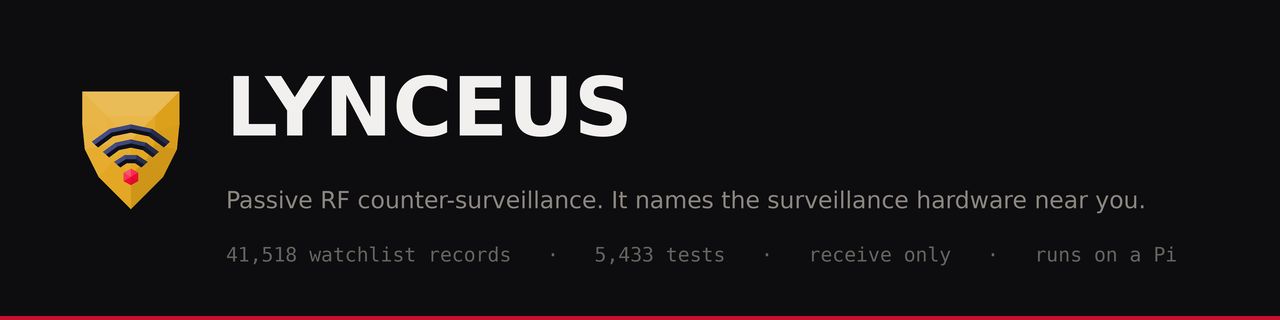
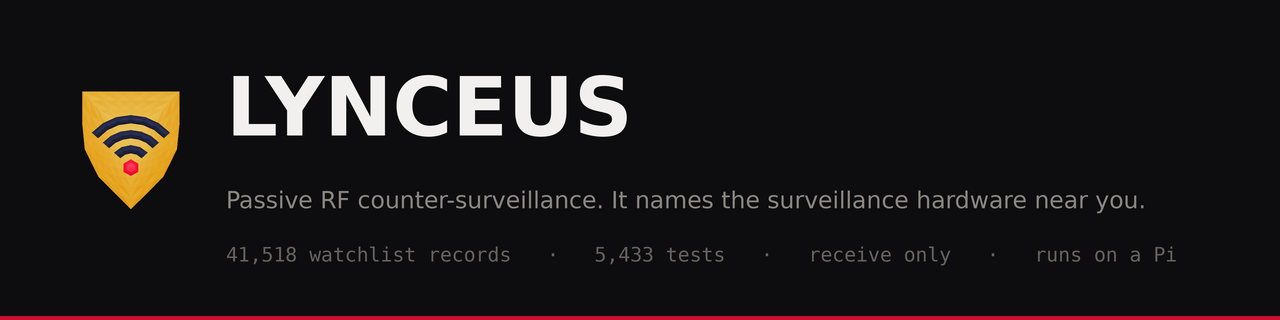
docs: the deeper-faceted Lynceus mark, drawn from one SVG
The mark is now the one on gurutechnology.services (the same file, byte for
byte): a 22-point shield with more rings of facets, lit nearly from the
front so the top shades like the rest of the shield, and the arcs centred
on y=40 where they were on y=44. docs/assets/lynceus-mark.svg is that file.
make_banner.py now reads its polygons instead of keeping a second copy of
the geometry in Python, so the PNGs are regenerated from the SVG.

The facts line was re-measured at 3457de9 and is unchanged: 5,433 tests
selected (64 deselected), record_count=41518 in default_watchlist.csv.

Changed region(s): [[0.0625, 0.2812, 0.1562, 0.5938]]

diff --git a/scripts/make_banner.py b/scripts/make_banner.py
@@ -33,9 +33,8 @@ soft on a HiDPI screen.
 Usage:
     python3 scripts/make_banner.py
 """
-import colorsys
-import math
 import os
+import xml.etree.ElementTree as ET
 
 from PIL import Image, ImageDraw, ImageFont
 
@@ -63,111 +62,37 @@ def font(kind, size):
 
 
 # ---- the low-poly mark ------------------------------------------------------
-# Every shape is split into flat triangles, and each triangle is shaded by how
-# much it faces one light from the top left, so the mark reads as a faceted
-# solid. Geometry is in a 64-unit box; draw_mark scales it to pixels. The same
-# geometry is the SVG mark on gurutechnology.services.
-LIGHT = (-0.45, -0.65, 0.62)
-_ln = math.sqrt(sum(c * c for c in LIGHT))
-LIGHT = tuple(c / _ln for c in LIGHT)
+# The mark is docs/assets/lynceus-mark.svg, the same file gurutechnology.services
+# shows: flat shaded polygons in a 64-unit box. draw_mark reads those polygons
+# and scales them to pixels, so these PNGs cannot drift from the site's mark.
+MARK_SVG = os.path.join(os.path.dirname(__file__), "..", "docs", "assets", "lynceus-mark.svg")
 
 
-def _shade(rgb, p, q, r, spread):
-    (x1, y1, z1), (x2, y2, z2), (x3, y3, z3) = p, q, r
-    ux, uy, uz = x2 - x1, y2 - y1, z2 - z1
-    vx, vy, vz = x3 - x1, y3 - y1, z3 - z1
-    nx, ny, nz = uy * vz - uz * vy, uz * vx - ux * vz, ux * vy - uy * vx
-    if nz < 0:
-        nx, ny, nz = -nx, -ny, -nz
-    m = math.sqrt(nx * nx + ny * ny + nz * nz) or 1
-    d = (nx * LIGHT[0] + ny * LIGHT[1] + nz * LIGHT[2]) / m
-    hue, lum, sat = colorsys.rgb_to_hls(*(c / 255 for c in rgb))
-    delta = spread * (d - 0.62) * 1.6
-    if delta < 0:
-        delta *= 0.55                     # the shaded side darkens gently, so colours stay even
-    lum = min(0.93, max(0.08, lum + delta))
-    return tuple(round(c * 255) for c in colorsys.hls_to_rgb(hue, lum, sat))
-
-
-def _ngon(cx, cy, r, n, rot=0):
-    return [(cx + r * math.cos(math.radians(rot + 360 * k / n)),
-             cy + r * math.sin(math.radians(rot + 360 * k / n))) for k in range(n)]
-
-
-class _Facets:
-    """Collects shaded triangles as (colour, [(x, y), (x, y), (x, y)])."""
-
-    def __init__(self):
-        self.tris = []
-
-    def tri(self, a, b, c, rgb, spread):
-        self.tris.append((_shade(rgb, a, b, c, spread), [a[:2], b[:2], c[:2]]))
-
-    def fan(self, poly, apex, h, rgb, spread):
-        """A pyramid: every edge of poly joined to a raised apex."""
-        top = (apex[0], apex[1], h)
-        for i in range(len(poly)):
-            p, q = poly[i], poly[(i + 1) % len(poly)]
-            self.tri((p[0], p[1], 0), (q[0], q[1], 0), top, rgb, spread)
-
-    def dome(self, poly, apex, h, rgb, spread, k=0.5, kz=0.72):
-        """Two rings of facets: an outer band rising to an inner ring, then a pyramid."""
-        inner = [(x + (apex[0] - x) * k, y + (apex[1] - y) * k) for x, y in poly]
-        top = (apex[0], apex[1], h)
-        n = len(poly)
-        for i in range(n):
-            p, q = poly[i], poly[(i + 1) % n]
-            a, b = inner[i], inner[(i + 1) % n]
-            P, Q = (p[0], p[1], 0), (q[0], q[1], 0)
-            A, B = (a[0], a[1], h * kz), (b[0], b[1], h * kz)
-            self.tri(P, Q, B, rgb, spread)
-            self.tri(P, B, A, rgb, spread)
-            self.tri(A, B, top, rgb, spread)
-
-    def ridge_arc(self, cx, cy, r, t, a0, a1, segs, h, rgb, spread=0.30):
-        """A band along an arc with a raised ridge down its middle."""
-        for i in range(segs):
-            b0 = math.radians(a0 + (a1 - a0) * i / segs)
-            b1 = math.radians(a0 + (a1 - a0) * (i + 1) / segs)
-
-            def P(rad, ang, z=0):
-                return (cx + rad * math.cos(ang), cy + rad * math.sin(ang), z)
-            i0, i1 = P(r - t / 2, b0), P(r - t / 2, b1)
-            o0, o1 = P(r + t / 2, b0), P(r + t / 2, b1)
-            m0, m1 = P(r, b0, h), P(r, b1, h)
-            self.tri(i0, i1, m1, rgb, spread)
-            self.tri(i0, m1, m0, rgb, spread)
-            self.tri(m0, m1, o1, rgb, spread)
-            self.tri(m0, o1, o0, rgb, spread)
-
-
-def _mark_facets():
-    """Gold shield, three navy arcs arriving from above, one red dot."""
-    f = _Facets()
-    shield = [(11, 7), (32, 7), (53, 7), (53, 21), (52, 32), (46, 44),
-              (32, 58), (18, 44), (12, 32), (11, 21)]
-    f.dome(shield, (32, 28), 12, (0xe6, 0xae, 0x34), 0.18)
-    for r in (8, 14.5, 21):
-        f.ridge_arc(32, 44, r, 3.6, 222, 318, 3 if r < 10 else 4, 1.6, (0x26, 0x2a, 0x48))
-    f.fan(_ngon(32, 44, 3.6, 6, -90), (32, 44), 2.5, (0xf4, 0x24, 0x46), 0.18)
-    return f.tris
-
-
-MARK_BOX = (11, 7, 53, 58)               # the shield's extent in the 64-unit box
+def _mark_polygons():
+    """[(rgb, [(x, y), ...]), ...] from MARK_SVG, in drawing order."""
+    polys = []
+    for el in ET.parse(MARK_SVG).iter("{http://www.w3.org/2000/svg}polygon"):
+        nums = [float(v) for v in el.get("points").replace(",", " ").split()]
+        fill = el.get("fill").lstrip("#")
+        polys.append((tuple(int(fill[i:i + 2], 16) for i in (0, 2, 4)), list(zip(nums[::2], nums[1::2]))))
+    if not polys:
+        raise SystemExit(f"no polygons found in {MARK_SVG}")
+    return polys
 
 
 def draw_mark(d, cx, cy, size):
     """Draw the mark centred on (cx, cy), its longer side `size` pixels.
 
-    Each facet is filled and outlined in its own colour, so no seam shows
-    between neighbours after the LANCZOS downsample.
+    Each polygon is outlined in its own colour, so no seam shows between
+    neighbours after the LANCZOS downsample.
     """
-    x0, y0, x1, y1 = MARK_BOX
-    s = size / max(x1 - x0, y1 - y0)
-    mx, my = (x0 + x1) / 2, (y0 + y1) / 2
-    for rgb, pts in _mark_facets():
-        xy = [(cx + (x - mx) * s, cy + (y - my) * s) for x, y in pts]
-        d.polygon(xy, fill=rgb, outline=rgb)
+    polys = _mark_polygons()
+    xs = [x for _, pts in polys for x, _ in pts]
+    ys = [y for _, pts in polys for _, y in pts]
+    s = size / max(max(xs) - min(xs), max(ys) - min(ys))
+    mx, my = (min(xs) + max(xs)) / 2, (min(ys) + max(ys)) / 2
+    for rgb, pts in polys:
+        d.polygon([(cx + (x - mx) * s, cy + (y - my) * s) for x, y in pts], fill=rgb, outline=rgb)
 
 
 def make_logo(path, size=512):
